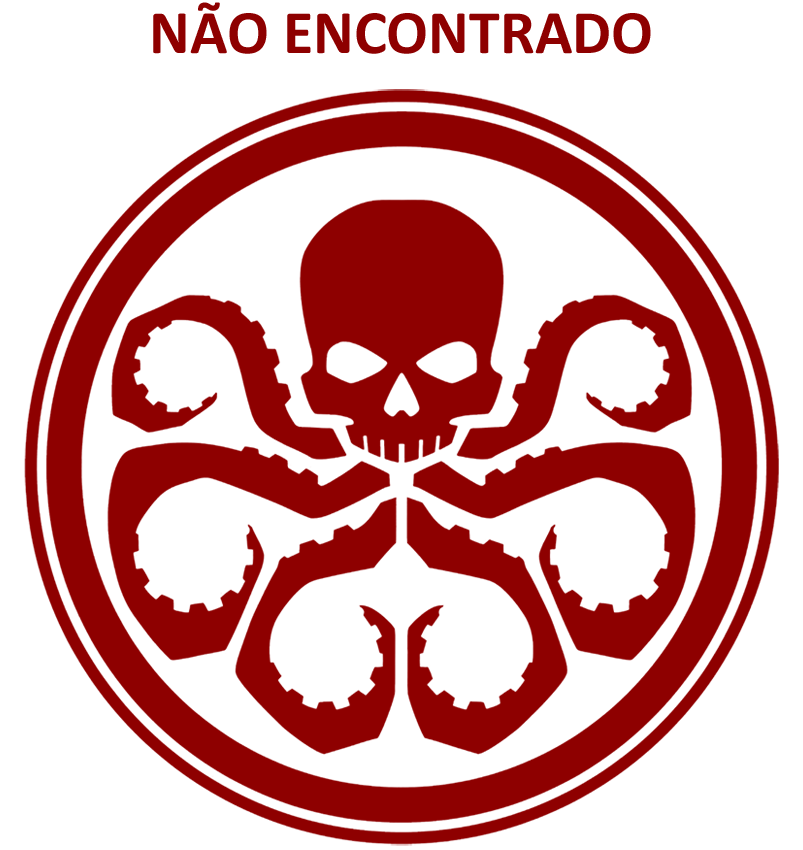
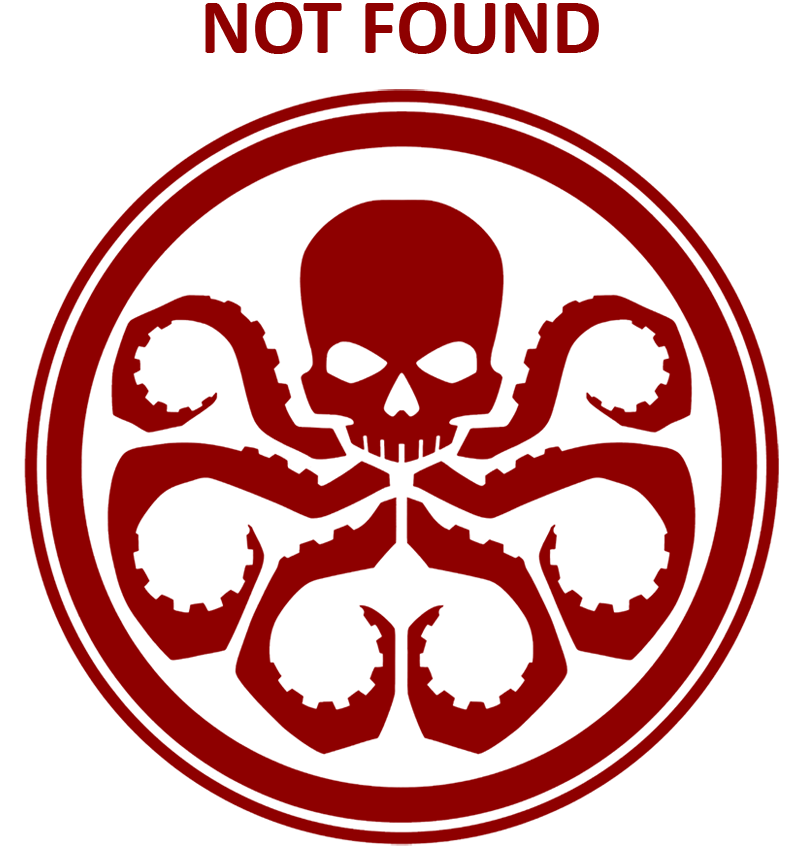
Atualizado

Changed region(s): [[0.1868, 0.0, 0.8095, 0.0612]]

diff --git a/src/app/pages/hq/Hq.tsx b/src/app/pages/hq/Hq.tsx
@@ -37,7 +37,7 @@ export const Hq = () => {
                                 hq.creators.items.map((creator) => (
                                     <h3>{creator.role === 'writer' ? `✍${creator.role}` :
                                         creator.role === 'artist' || creator.role === 'colorist (cover)'
-                                            || creator.role === 'colorist' ? `🖌${creator.role}`
+                                            || creator.role === 'colorist' || creator.role === 'painter (cover)' ? `🖌${creator.role}`
                                             : creator.role === 'penciler (cover)' || creator.role === 'letterer'
                                                 || creator.role === 'penciler' || creator.role === 'penciller'
                                                 || creator.role === 'penciller (cover)' ? `📝${creator.role}`

diff --git a/src/app/pages/character/Character.tsx b/src/app/pages/character/Character.tsx
@@ -5,6 +5,7 @@ import { FetchHeroes } from "../../../utils/Util";
 import Card from "../../shared/components/Card";
 import { fetchData, getComics } from "../../../utils/asyncActions";
 import Pagination from "../../shared/components/Pagination";
+import notFound from "../../../assets/NAO_Encontrado.png"
 
 export const Character = () => {
     const { id } = useParams()
@@ -34,7 +35,7 @@ export const Character = () => {
                     </div>
                     <div className="character-info">
                         <h1>{character.name}</h1>
-                        {character.description === "" && <h3>Não possui descrição</h3> || <h3> {character.description}</h3>}
+                        {character.description === "" && <img src={notFound} alt="" /> || <h3> {character.description}</h3>}
                     </div>
                 </div>
                 <div>

diff --git a/src/app/pages/character/Character.css b/src/app/pages/character/Character.css
@@ -42,6 +42,12 @@
     transition: .2s;
 }
 
+.character-info img {
+    display: flex;
+    margin: auto;
+    width: 25%;
+}
+
 .container .info figure img:hover {
     border-radius: 0;
 }
